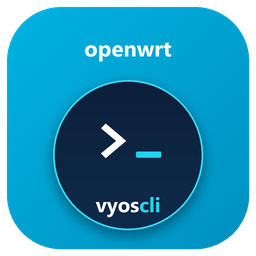
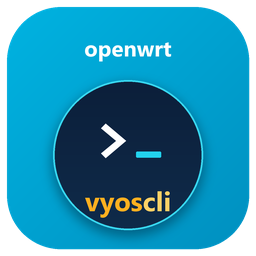
docs: enlarge vyoscli wordmark and use VyOS orange/yellow
The wordmark grows from 82 to 108px and uses VyOS orange (#ffb020) with a yellow cli accent (#ffd166) against the dark navy circle; the 1024/512/256 PNGs and SVG were regenerated.

Changed region(s): [[0.3125, 0.75, 0.6875, 0.875]]

diff --git a/scripts/make-icon.py b/scripts/make-icon.py
@@ -71,12 +71,12 @@ def main() -> None:
                         radius=5, fill=CYAN + (255,))
 
     # vyoscli wordmark
-    wf = ImageFont.truetype(FONT_BOLD, 82)
+    wf = ImageFont.truetype(FONT_BOLD, 108)
     vw = d.textlength("vyos", font=wf)
     cw = d.textlength("cli", font=wf)
     sx = cx - (vw + cw) / 2
-    d.text((sx, 760), "vyos", font=wf, fill=(255, 255, 255, 255))
-    d.text((sx + vw, 760), "cli", font=wf, fill=CYAN + (255,))
+    d.text((sx, 728), "vyos", font=wf, fill=(255, 176, 32, 255))
+    d.text((sx + vw, 728), "cli", font=wf, fill=(255, 209, 102, 255))
 
     # outer frame
     d.rounded_rectangle((24, 24, S - 24, S - 24), radius=220,
